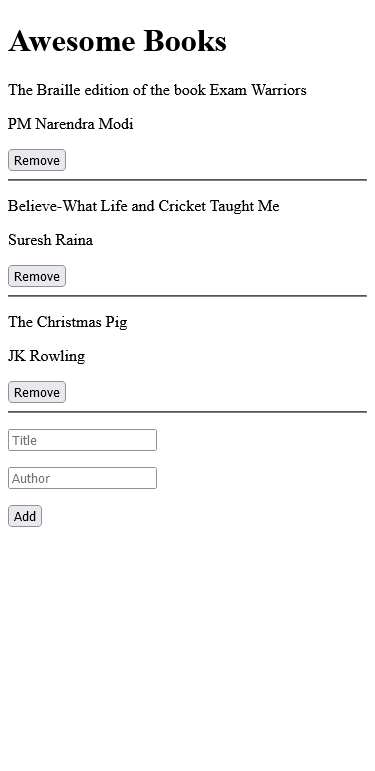
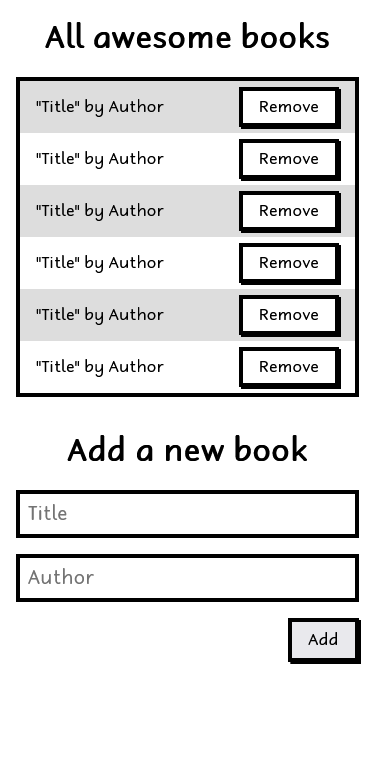
Update README.md file and the mobile screensot

Changed region(s): [[0.0, 0.0311, 0.968, 0.8716], [0.6453, 0.0311, 0.88, 0.0623]]

diff --git a/README.md b/README.md
@@ -21,7 +21,10 @@ In this project, we built a basic website that allows users to add/remove books 
   - [x] The correct book is removed from the collection.
   - [x] The correct book dissapears from the page.
 - [x] Make sure that data is preserved in the browser's memory by using localStorage.
-- [x] To debug your application, you can use console.log(). Remember to remove debugging code before pushing your code to the remote repository.
+- [x] Refactor the code from [PR #12](https://github.com/EngruugbeJimmy/Awesome_books/pull/12)
+- [x] Use JavaScript classes instead of objects and arrays
+- [x] replace add and remove function with class methods to add and remove books.
+- [x] Add CSS styles to the application to make it match this wireframe:
 
 ## DEMO LINK
 
@@ -37,6 +40,7 @@ In this project, we built a basic website that allows users to add/remove books 
 
 - [HTML](https://developer.mozilla.org/en-US/docs/Web/HTML)
 - [JavaScript](https://developer.mozilla.org/en-US/docs/Web/JavaScript)
+- [CSS](https://developer.mozilla.org/en-US/docs/Web/CSS)
 
 
 ## Getting Started
